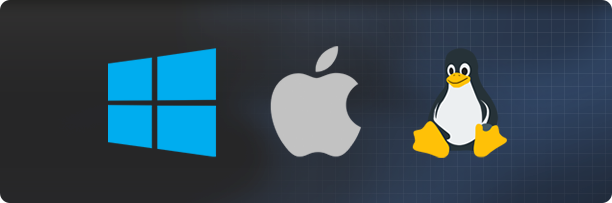
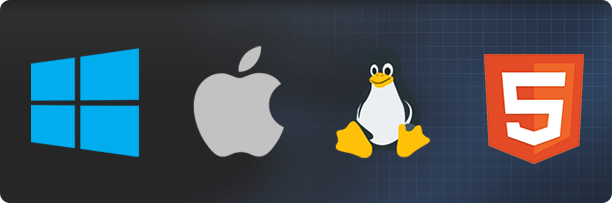
+added link to html maker.

diff --git a/README.md b/README.md
@@ -11,7 +11,7 @@
 
 **Get BASIC8!**
 
-[![BASIC8 on Steam](pages/imgs/steam.png)](http://store.steampowered.com/app/767240/)
+[![BASIC8 on Steam](pages/imgs/steam.png)](https://store.steampowered.com/app/767240/)
 
 | FANTASY | COMPUTER |
 |----|----|
@@ -36,7 +36,7 @@ It's been a while since we used to enjoy coding and playing straightforward afte
 
 ![](pages/imgs/tools.png)
 
-BASIC8 provides built-in tools for editing sprite, tiles, map, quantized, etc. And extra tools as regular disks, such as the [Wave Maker](http://steamcommunity.com/sharedfiles/filedetails/?id=1352790993), [Player Maker](http://steamcommunity.com/sharedfiles/filedetails/?id=1328727512). It's furthermore possible to [bring your own tools](http://steamcommunity.com/sharedfiles/filedetails/?id=1350153766), or [use plugins](https://github.com/paladin-t/b8.plugins).
+BASIC8 provides built-in tools for editing sprite, tiles, map, quantized, etc. And extra tools as regular disks, such as the [Wave Maker](https://steamcommunity.com/sharedfiles/filedetails/?id=1352790993), [Player Maker](https://steamcommunity.com/sharedfiles/filedetails/?id=1328727512), [HTML Maker](https://steamcommunity.com/sharedfiles/filedetails/?id=1391948686). It's furthermore possible to [bring your own tools](https://steamcommunity.com/sharedfiles/filedetails/?id=1350153766), or [use plugins](https://github.com/paladin-t/b8.plugins).
 
 ### Shareable disks
 
@@ -44,19 +44,19 @@ See examples including [Cosmos Saga](https://paladin-t.github.io/b8/examples/Cos
 
 ![](pages/imgs/cosmos_saga.gif) ![](pages/imgs/infinity_fighter.gif) ![](pages/imgs/boing_ball.gif)
 
-BASIC8 disks can be handily shared via [Workshop](http://steamcommunity.com/app/767240/workshop/) with built-in [tools](https://paladin-t.github.io/b8/docs/workshop); saved as "`*.b8`" file, "`*.png`", or text based for sharing to other places.
+BASIC8 disks can be handily shared via [Workshop](https://steamcommunity.com/app/767240/workshop/) with built-in [tools](https://paladin-t.github.io/b8/docs/workshop); saved as "`*.b8`" file, "`*.png`", or text based for sharing to other places.
 
-[![Workshop](docs/imgs/workshop.png)](http://steamcommunity.com/app/767240/workshop/)
+[![Workshop](docs/imgs/workshop.png)](https://steamcommunity.com/app/767240/workshop/)
 
 ### Redistributing
 
 ![](pages/imgs/banner_platforms.png)
 
-BASIC8 can be productive. Make redistributable [standalone player as executable binary](http://steamcommunity.com/sharedfiles/filedetails/?id=1328785409) with the [Player Maker](http://steamcommunity.com/sharedfiles/filedetails/?id=1328727512) for Windows, Mac OS X and Linux.
+BASIC8 can be productive. Make redistributable [standalone player as executable binary](https://steamcommunity.com/sharedfiles/filedetails/?id=1328785409) with the [Player Maker](https://steamcommunity.com/sharedfiles/filedetails/?id=1328727512) for Windows, Mac OS X and Linux, and [standalone player as web page](https://steamcommunity.com/sharedfiles/filedetails/?id=1391950196) with the [HTML Maker](https://steamcommunity.com/sharedfiles/filedetails/?id=1391948686) for browsers.
 
 ### Get BASIC8
 
-[![BASIC8 on Steam](pages/imgs/on_steam.png)](http://store.steampowered.com/app/767240/)
+[![BASIC8 on Steam](pages/imgs/on_steam.png)](https://store.steampowered.com/app/767240/)
 
 ### System requirements
 
@@ -71,8 +71,8 @@ BASIC8 can be productive. Make redistributable [standalone player as executable 
 
 | Links | |
 |----|----|
-| Discuss | [Forums](http://steamcommunity.com/app/767240/discussions/) |
+| Discuss | [Forums](https://steamcommunity.com/app/767240/discussions/) |
 | Chat | [#basic8](https://discord.gg/phR38jm) [Fantasy Consoles](https://discord.gg/e4cpeuV) |
 | Twitter | [@wangrenxin](https://twitter.com/wangrenxin) |
-| Devlogs | [Steam discussion](http://steamcommunity.com/app/767240/discussions/9/) |
+| Devlogs | [Steam discussion](https://steamcommunity.com/app/767240/discussions/9/) |
 | Projects | [Tracking boards](https://github.com/paladin-t/b8/projects) |
